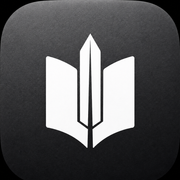
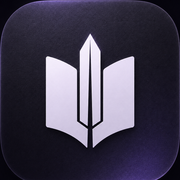
O ícone ganha o vidro roxo, e o app ganha um manifesto de verdade (#89)
O dono trouxe um logo novo: "adicionei um logo... pra você alterar quando
alguém for usar o site como app, etc". A mesma marca (livro + fio), mas na
pele do cinza-roxinho — fundo roxo-escuro com textura e brilho na borda —
em vez do grafite chapado que assets/logoiconpreto.png guardava desde
antes da troca de paleta.

Substituí a arte-fonte e rodei `pnpm brand`: o script já existente que
recorta e gera tudo a partir dela (nada foi redimensionado à mão).
app/apple-icon.png, public/favicon.ico e public/logo/icone-grafite-1024.png
saíram atualizados de lá.

assets/logoiconbranco.png (a pele clara) NÃO foi trocada — só chegou um
arquivo novo, o escuro. Continua no estilo antigo e agora destoa do
grafite; um problema pequeno, já que docs/design.md diz que a pele clara
"não é o padrão em lugar nenhum". Registrado em ai/DECISIONS.md.

Faltava também o manifesto do app. Sem ele, só o Safari/iOS tinha um
"Adicionar à Tela de Início" de verdade (mecanismo próprio da Apple). No
Chrome/Android, "usar como app" era um atalho pobre: sem ícone redondo do
sistema, sem tela cheia, sem nome no app switcher.

- scripts/brand.mjs: dois exports a mais (public/icon-192.png,
  public/icon-512.png), do mesmo recorte do grafite — nunca uma terceira
  cópia da arte.
- app/manifest.ts: display "standalone", ícones 192/512, cores do canvas
  escuro (#17151d, o mesmo de app/globals.css).
- app/layout.tsx: viewport.themeColor (claro e escuro, via
[…]

diff --git a/app/manifest.ts b/app/manifest.ts
@@ -1,0 +1,38 @@
+import type { MetadataRoute } from "next";
+
+/**
+ * ════════════════════════════════════════════════════════════════════
+ *  O MANIFESTO DO APP. Sem ele, "instalar" é um atalho pobre.
+ *
+ *  app/apple-icon.png já cobria o Safari/iOS (Adicionar à Tela de Início usa
+ *  esse arquivo por convenção própria da Apple, sem manifesto nenhum). Mas o
+ *  Chrome/Android só oferece a instalação DE VERDADE — ícone redondo do
+ *  sistema, tela cheia sem barra de endereço, nome próprio no app switcher —
+ *  quando existe um `manifest.webmanifest` para ler. Sem isto, "usar como
+ *  app" no Android era só um atalho da web salvo na tela, com a barra do
+ *  navegador ainda visível.
+ *
+ *  Next serve este arquivo em /manifest.webmanifest e já linka o <head>
+ *  sozinho: nada a mais para escrever em app/layout.tsx.
+ *
+ *  Os ícones vêm de scripts/brand.mjs (pnpm brand) — a mesma arte-fonte do
+ *  favicon e do apple-icon, nunca uma terceira cópia. Ver docs/design.md.
+ * ════════════════════════════════════════════════════════════════════
+ */
+export default function manifest(): MetadataRoute.Manifest {
+  return {
+    name: "Gume",
+    short_name: "Gume",
+    description: "A mente nunca perde o fio.",
+    start_url: "/",
+    display: "standalone",
+    // O canvas escuro é a casa: a marca nasceu para ele, e é o tema que o
+    // dono trouxe como o principal nesta rodada de redesign. Ver app/globals.css.
+    background_color: "#17151d",
+    theme_color: "#17151d",
+    icons: [
+      { src: "/icon-192.png", sizes: "192x192", type: "image/png" },
+      { src: "/icon-512.png", sizes: "512x512", type: "image/png" },
+    ],
+  };
+}

diff --git a/app/layout.tsx b/app/layout.tsx
@@ -1,5 +1,5 @@
 import { Suspense } from "react";
-import type { Metadata } from "next";
+import type { Metadata, Viewport } from "next";
 import { Inter, Newsreader, Fraunces } from "next/font/google";
 import { Sidebar } from "@/components/sidebar";
 import { SCRIPT_DO_TEMA } from "@/components/tema";
@@ -59,6 +59,20 @@ export const metadata: Metadata = {
   metadataBase: new URL(process.env.APP_URL ?? "http://localhost:3000"),
   title: "Gume",
   description: "A mente nunca perde o fio.",
+};
+
+/**
+ * A cor da barra de endereço (Android) e do fundo atrás do teclado/notch
+ * (iOS), nos dois temas — não só no app instalado (isso é o manifest.ts),
+ * mas em toda visita, dentro do navegador. Os dois hex são os mesmos
+ * --color-canvas de app/globals.css: a barra do sistema é o canvas, mais
+ * um pixel.
+ */
+export const viewport: Viewport = {
+  themeColor: [
+    { media: "(prefers-color-scheme: light)", color: "#f2efe8" },
+    { media: "(prefers-color-scheme: dark)", color: "#17151d" },
+  ],
 };
 
 /**

diff --git a/ai/DECISIONS.md b/ai/DECISIONS.md
@@ -3738,3 +3738,40 @@ o teste, e o próprio Postgres recusou montar o cenário: `editions.isbn13`
 começo de conversa. O remendo defendia contra um estado impossível.
 Revertido antes de virar código morto. `lib/fundir-edicoes.sql.test.ts`
 guarda a explicação, para não reaparecer.
+
+---
+
+## O ícone ganhou o vidro roxo, e o app ganhou um manifesto de verdade.
+
+O dono trouxe um logo novo ("pra você alterar quando alguém for usar o
+site como app") — a mesma marca (livro + fio), mas na pele nova do
+`cinza-roxinho`: fundo roxo-escuro com textura e um brilho na borda, em vez
+do grafite chapado que `assets/logoiconpreto.png` guardava desde antes da
+troca de paleta. Substitui a arte-fonte e rodei `pnpm brand` — o script já
+existente que recorta e gera tudo a partir dela; nada foi redimensionado à
+mão. `app/apple-icon.png`, `public/favicon.ico` e
+`public/logo/icone-grafite-1024.png` saíram atualizados de lá.
+
+`assets/logoiconbranco.png` (a pele clara, "para fundo claro e para
+papel") **não** foi trocada — só ganhei um arquivo novo, o escuro. Ela
+continua no estilo antigo, chapado, e agora destoa do grafite: um problema
+pequeno, porque a própria `docs/design.md` já dizia que a pele clara "não é
+o padrão em lugar nenhum". Registrado aqui para não ser esquecido, não
+para ser resolvido calado.
+
+Faltava, além disso, o manifesto do app (`app/manifest.ts`) — sem ele, só
+o Safari/iOS tinha um "Adicionar à Tela de Início" de verdade (mecanismo
+próprio da Apple, não depende de manifesto). No Chrome/Android, "usar como
+app" era um atalho pobre: sem ícone redondo do sistema, sem tela cheia, sem
+nome no app switcher. `scripts/brand.mjs` ganhou dois exports a mais
+(`public/icon-192.png`, `public/icon-512.png`, do mesmo recorte do
+grafite — nunca uma terceira cópia da arte), e `app/manifest.ts` os
+referencia com `display: "standalone"` e as cores do canvas escuro
+(`#17151d`, o mesmo de `app/globals.css`).
+
+De brinde, `app/layout.tsx` ganhou `viewport.themeColor` (claro e escuro,
+via `prefers-color-scheme`) — a barra de endereço do celular passa a ser a
+cor do canvas em qualquer visita, não só no app instalado.
+
+`docs/design.md` — "o ícone vive em exatamente três lugares" virou cinco,
+com os dois novos do manifesto.

diff --git a/docs/design.md b/docs/design.md
@@ -25,10 +25,11 @@ A marca é preta e branca, sempre: ela é `currentColor`, e nunca uma cor própr
 
 O ícone é o quadrado arredondado, com grão: grafite com a marca em branco (`assets/logoiconpreto.png`, **o principal**, e é a pedra de amolar) e osso com a marca em preto (`assets/logoiconbranco.png`, para fundo claro e para papel).
 
-**Ele vive em exatamente três lugares, e em nenhum outro:**
+**Ele vive em exatamente cinco lugares, e em nenhum outro:**
 
 - `app/apple-icon.png` (180×180)
 - `public/favicon.ico`
+- `public/icon-192.png` e `public/icon-512.png` (o manifesto do app — ver `app/manifest.ts`)
 - a loja (`public/logo/icone-*-1024.png`)
 
 **Na interface, a marca é sempre chapada e `currentColor`.** Um ícone com grão e fundo próprio dentro de uma tela é um adesivo colado na tela: ele não herda a cor do texto, não inverte no tema claro, e vira uma caixinha cinza no meio de um cabeçalho. Se você se pegar importando um `.png` de marca dentro de `app/` ou `components/`, pare.
